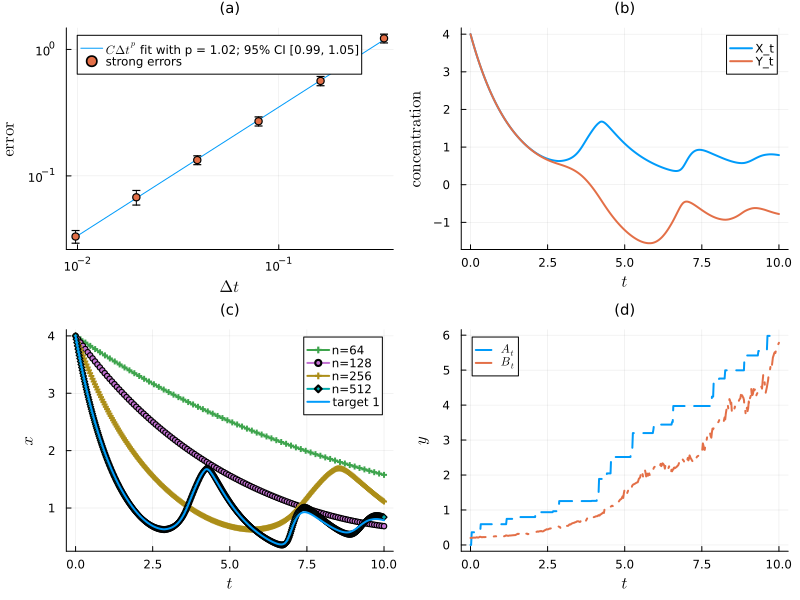
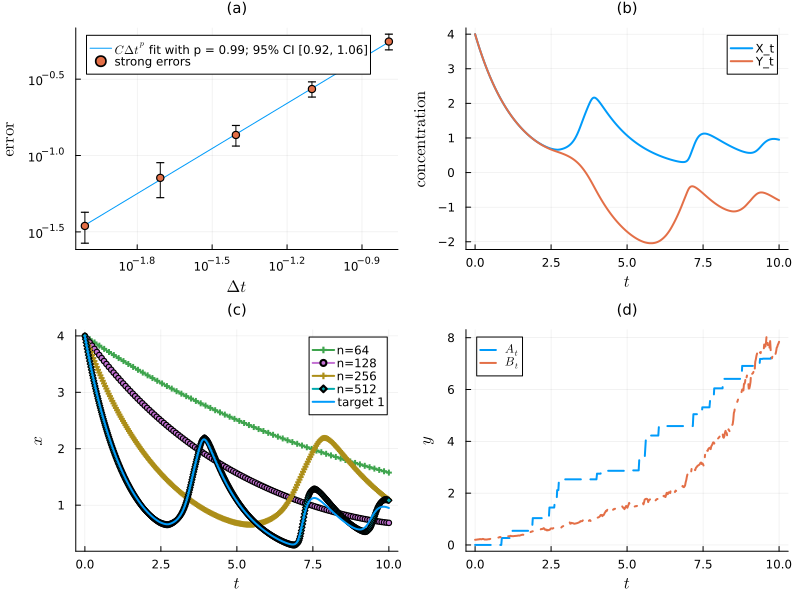
new toggleswitch params

diff --git a/docs/src/examples/07-toggle_switch.md b/docs/src/examples/07-toggle_switch.md
@@ -105,9 +105,9 @@ The resolutions for the target and approximating solutions, as well as the numbe
 
 ````@example 07-toggle_switch
 ntgt = 2^18
-ns = 2 .^ (4:9)
+ns = 2 .^ (5:9)
 nsample = ns[[1, 2, 3, 4]]
-m = 200
+m = 100
 ````
 
 And add some information about the simulation:
